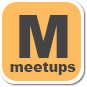
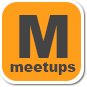
Darkened the sticker colors a bit.

diff --git a/dev.html b/dev.html
@@ -51,6 +51,19 @@
         <img class="sticker" src="img/n-sticker.png"></img>
       </div>
       <div id="news" class="span6">
+        <script type="text/javascript">
+          var elts = [];
+          for (var i = 0; i < 3; i++) {
+            var itm = agg.news[i];
+            itmhtml = '<li><span class="headline">'+itm.title+'</span>';
+            itmhtml += '<span class="byline"><a href="'+itm.link+'">'+itm.link+'</a></span></li>';
+            elts.push(itmhtml);
+          }
+          $('<ul/>', {
+            'class': 'agg-results',
+            html: elts.join('')
+          }).appendTo('#news');
+        </script>
       </div>
     </div>
     <div class="vspace" style="height:50px;"></div>
@@ -96,7 +109,7 @@
       for (var i = 0; i < 3; i++) {
         var itm = agg.news[i];
         itmhtml = '<li><span class="headline">'+itm.title+'</span>';
-        itmhtml += '<span class="byline">'+itm.link+'</span></li>';
+        itmhtml += '<span class="byline"><a href="'+itm.link+'">'+itm.link+'</a></span></li>';
         elts.push(itmhtml);
       }
       $('<ul/>', {
@@ -108,7 +121,7 @@
       for (var i = 0; i < 3; i++) {
         var itm = agg.meetups[i];
         itmhtml = '<li><span class="headline">'+itm.title+'</span>';
-        itmhtml += '<span class="byline">'+itm.link+'</span></li>';
+        itmhtml += '<span class="byline"><a href="'+itm.link+'">'+itm.link+'</a></span></li>';
         elts.push(itmhtml);
       }
       $('<ul/>', {
@@ -120,7 +133,7 @@
       for (var i = 0; i < 3; i++) {
         var itm = agg.courses[i];
         itmhtml = '<li><span class="headline">'+itm.title+'</span>';
-        itmhtml += '<span class="byline">'+itm.link+'</span></li>';
+        itmhtml += '<span class="byline"><a href="'+itm.link+'">'+itm.link+'</a></span></li>';
         elts.push(itmhtml);
       }
       $('<ul/>', {
@@ -132,7 +145,7 @@
       for (var i = 0; i < 3; i++) {
         var itm = agg.projects[i];
         itmhtml = '<li><span class="headline">'+itm.title+'</span>';
-        itmhtml += '<span class="byline">'+itm.link+'</span></li>';
+        itmhtml += '<span class="byline"><a href="'+itm.link+'">'+itm.link+'</a></span></li>';
         elts.push(itmhtml);
       }
       $('<ul/>', {

diff --git a/css/dev.css b/css/dev.css
@@ -118,7 +118,7 @@ ul.agg-results li {
 	line-height: 10px;
 	margin-bottom: 10px;
 }
-li span.headline {
+ul.agg-results li span.headline {
 	display: block;
 	font-family: 'Neucha', cursive;
 	font-weight: bold;
@@ -127,24 +127,16 @@ li span.headline {
 	margin: 0;
 	padding: 0;	
 }
-li span.byline {
+ul.agg-results li span.byline {
 	font-size: 10px;
 	color: #9b999b;
 }
-p.headline {
-	font-family: 'Neucha', cursive;
-	font-weight: bold;
-	font-size: 18px;
-	margin: 0;
-	padding: 0;	
-}
-div.byline {
-	line-height: 10px;
-	font-size: 10px;
-	margin-bottom: 8px;
+span.byline a:-webkit-any-link {
 	color: #9b999b;
 }
 
+/* Stickers
+================================================ */
 img.sticker {
 	display: block;
 	margin: 0 auto;
